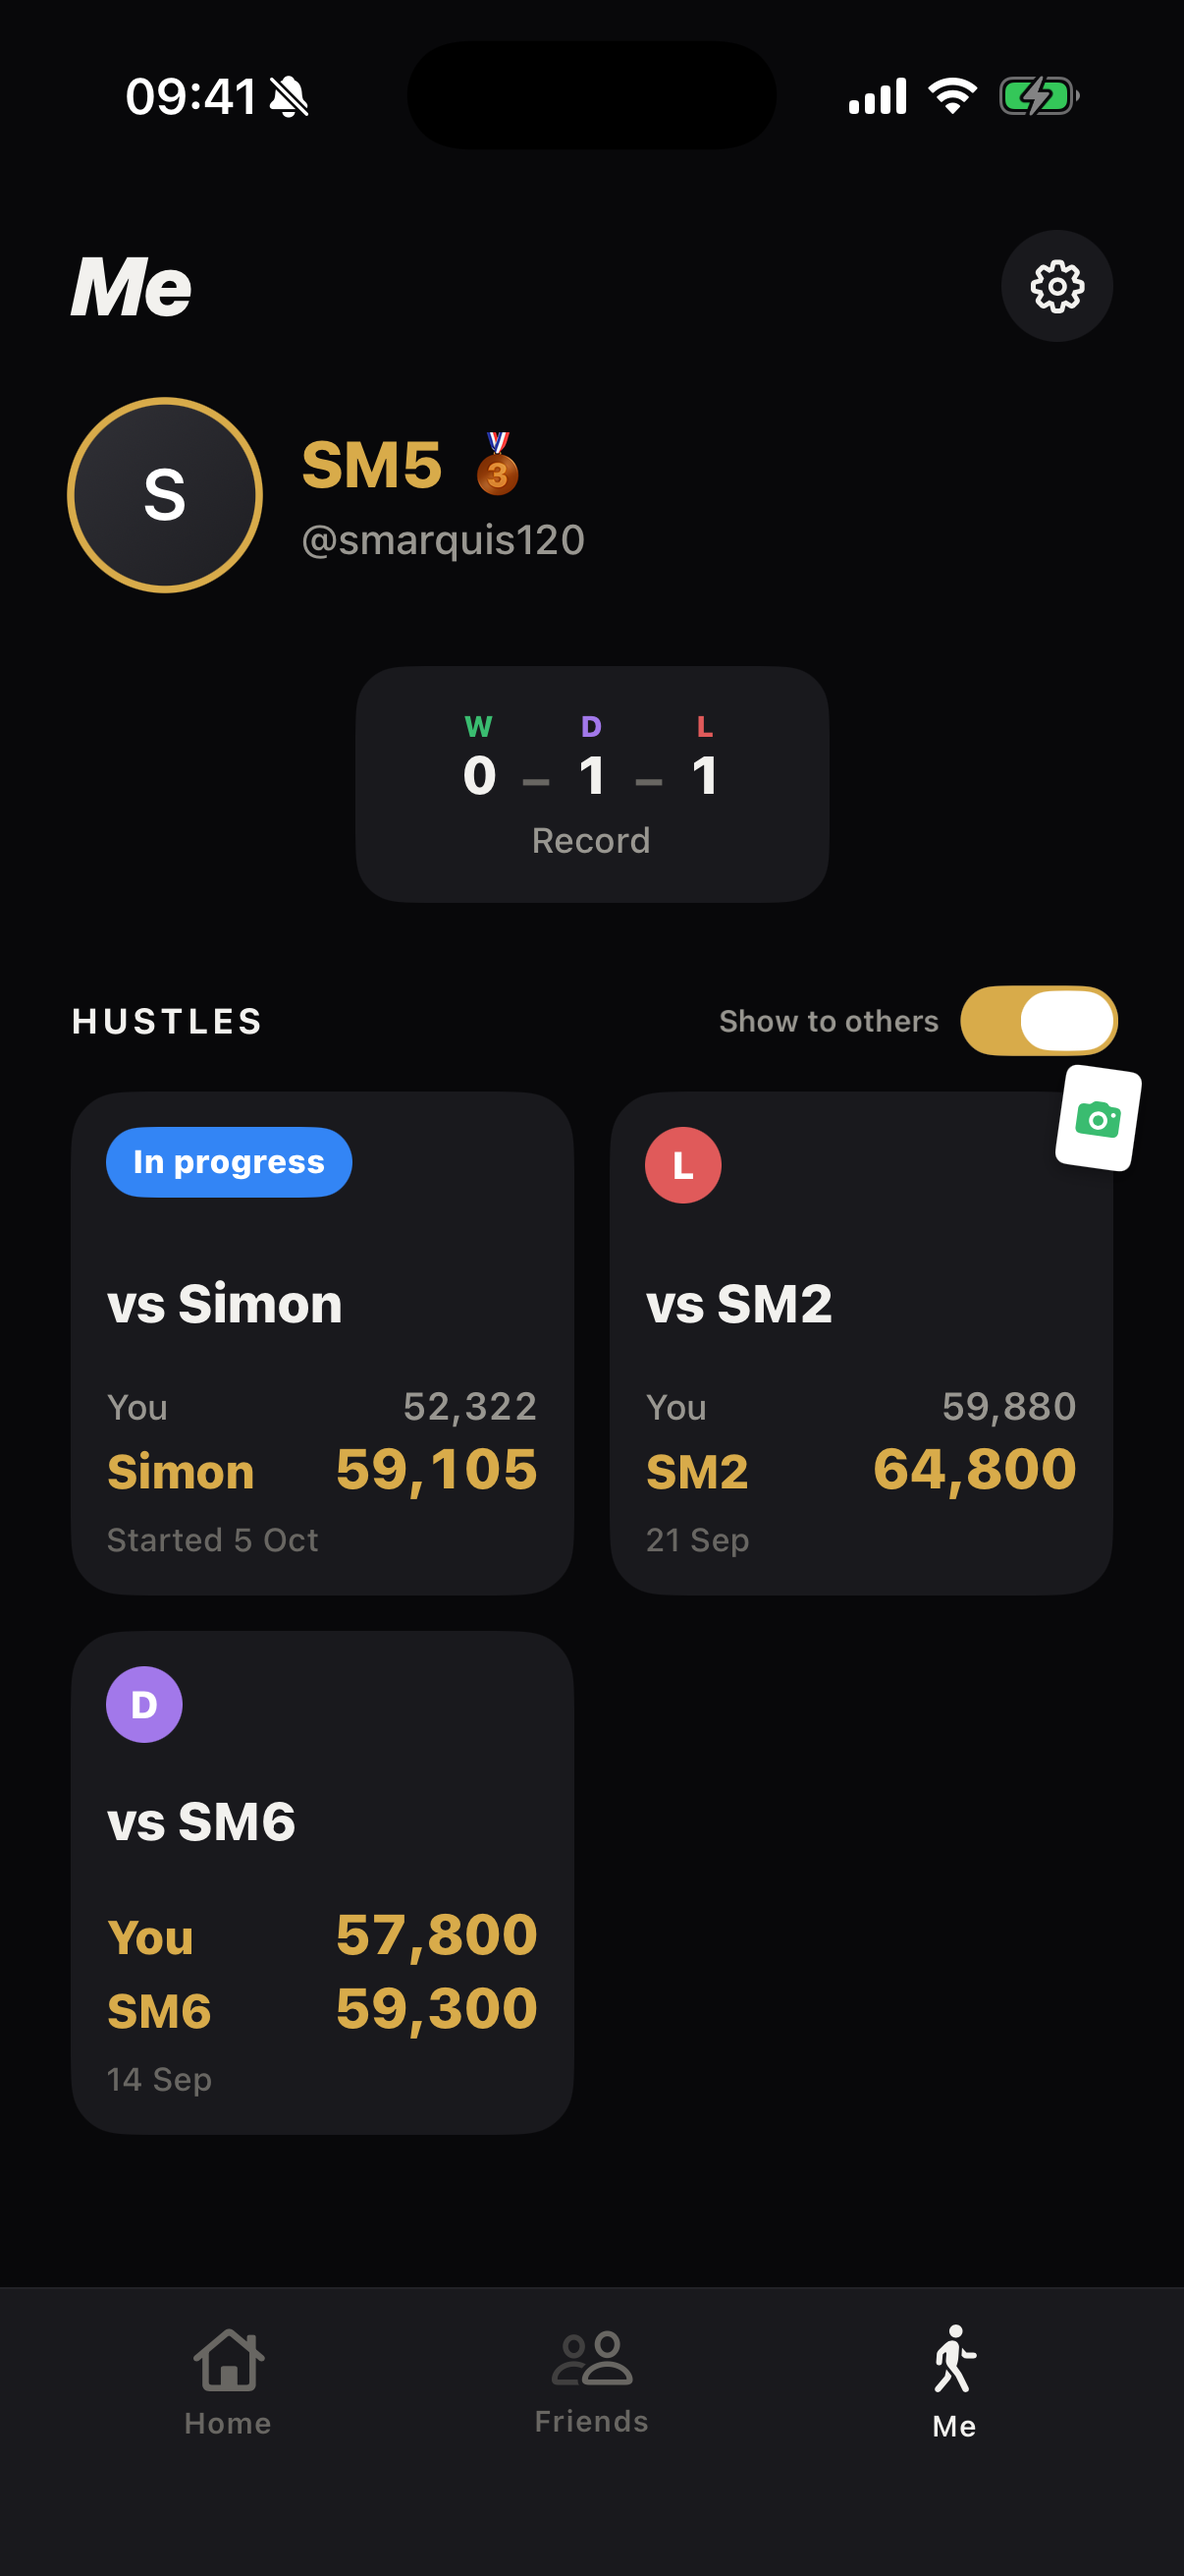
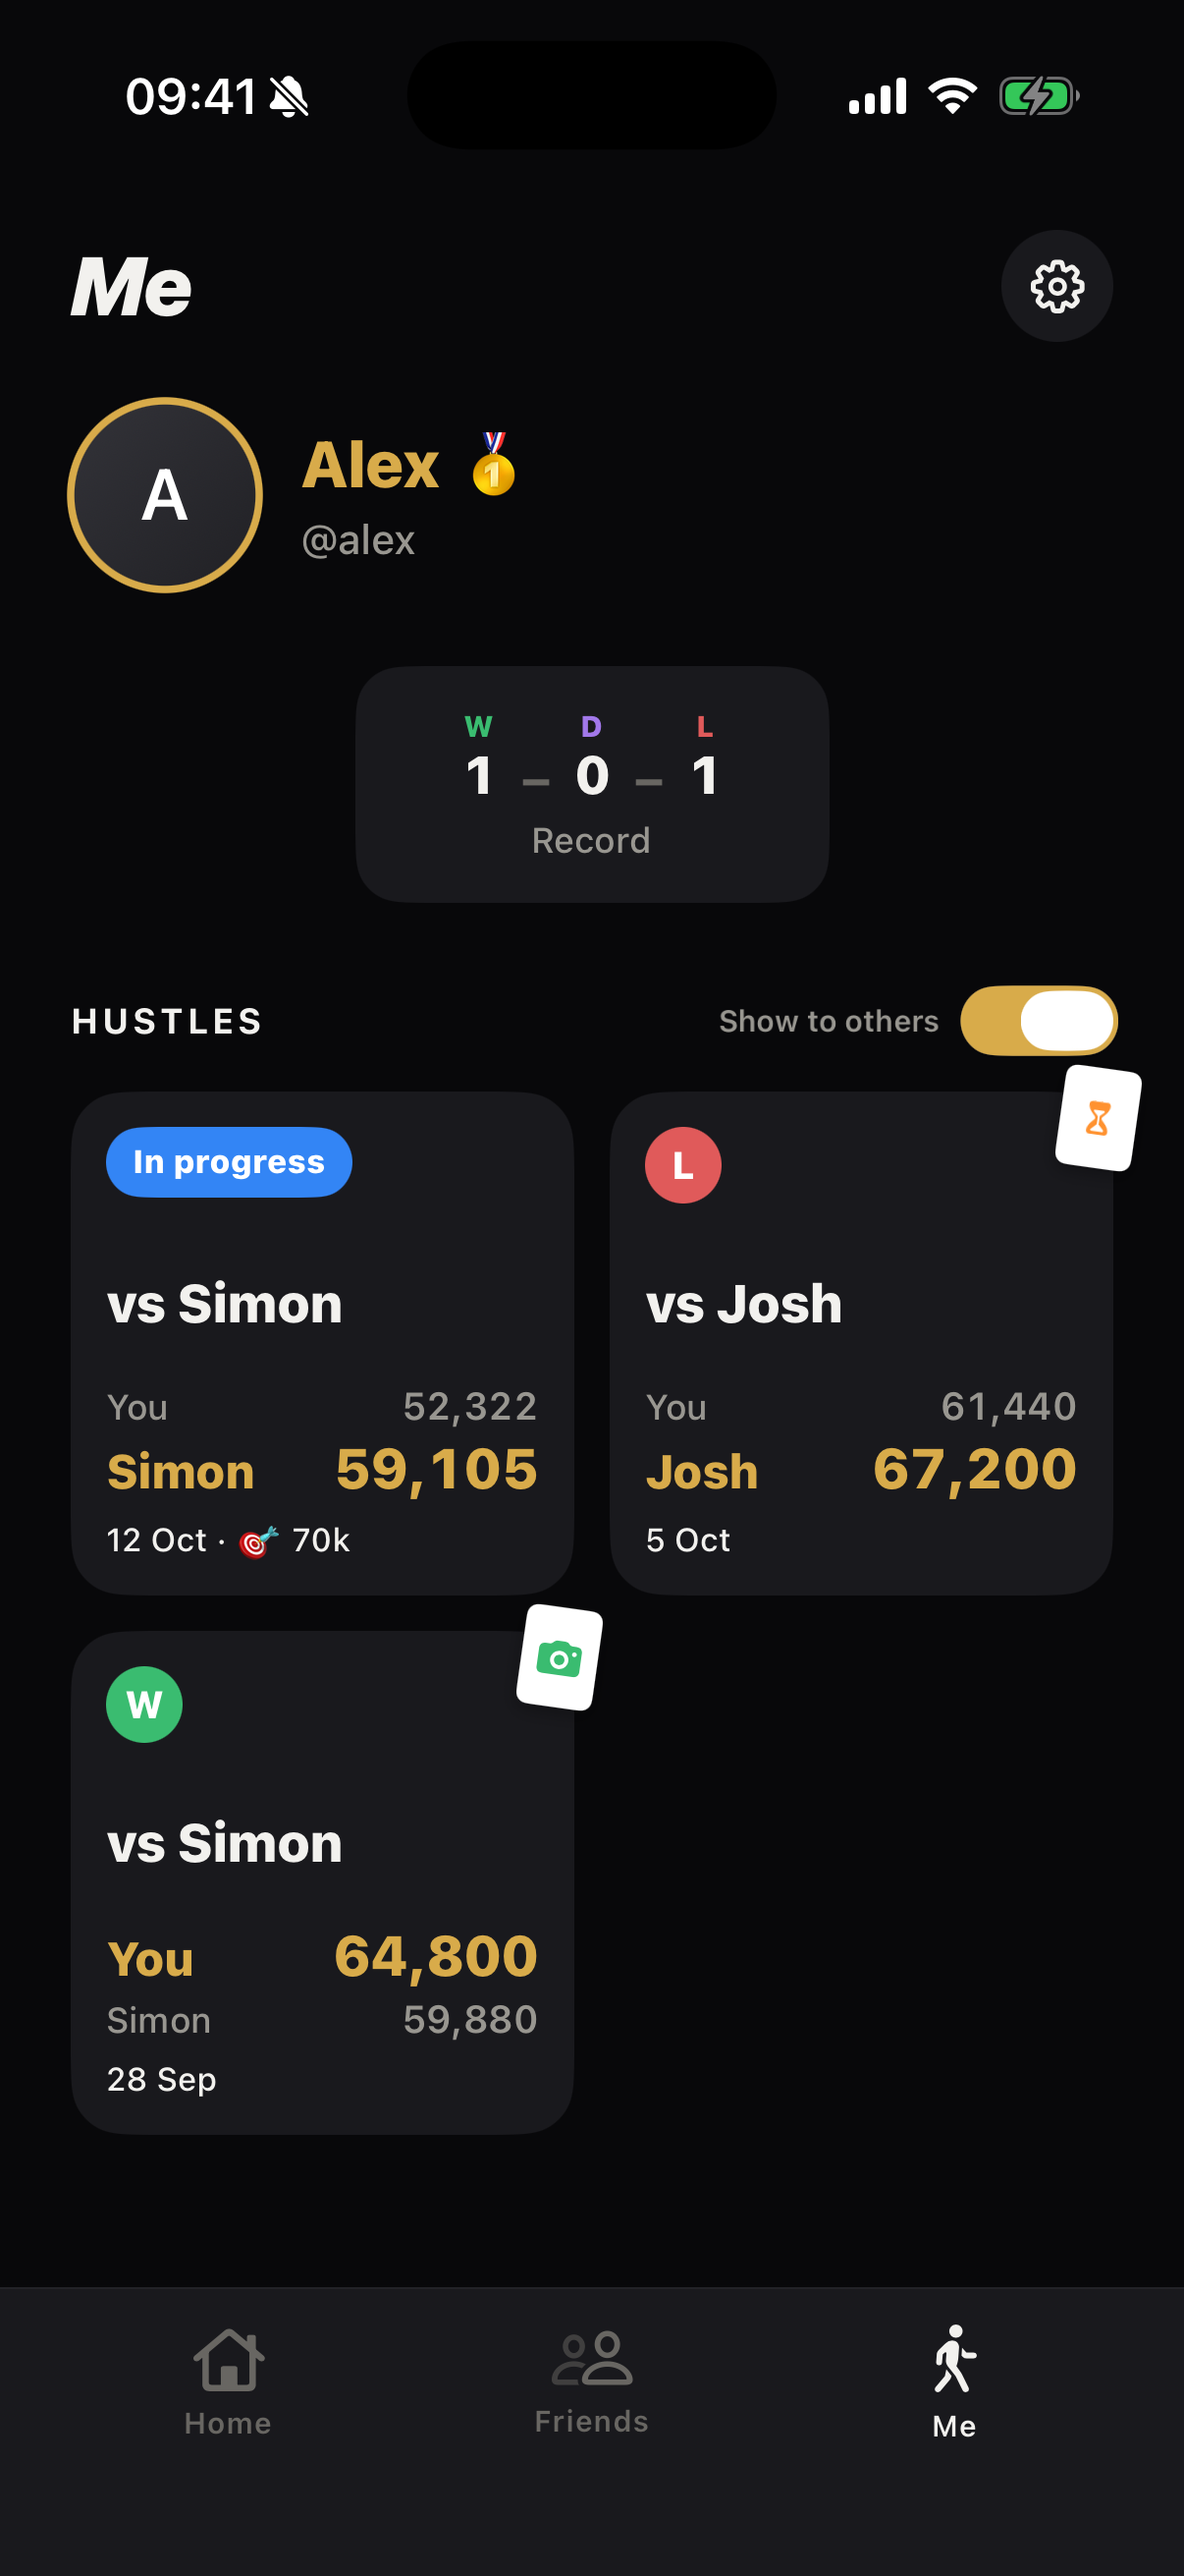
Just you card: weekly challenges + demo profile (no real account details)
Claude-Session: https://claude.ai/code/session_01FiZPvpkTZdwvwisTiJ46Nk

diff --git a/index.html b/index.html
@@ -20,7 +20,7 @@
   <link rel="icon" href="/favicon.ico?v=4" sizes="any">
   <link rel="icon" type="image/png" sizes="32x32" href="/img/favicon-32.png?v=2">
   <link rel="apple-touch-icon" href="/img/apple-touch-icon.png?v=2">
-  <link rel="stylesheet" href="style.css?v=47">
+  <link rel="stylesheet" href="style.css?v=48">
 </head>
 <body>
   <div class="page">
@@ -115,7 +115,10 @@
           </ul>
         </div>
         <div class="mode">
-          <div class="mode-shot"><img src="img/shot-profile.png" alt="Your profile with your daily step goal and personal challenges" width="1206" height="2622"></div>
+          <div class="mode-shots">
+            <div class="mode-shot"><img src="img/shot-challenges.png?v=1" alt="Your weekly challenges, sized to your own step history" width="1206" height="2622"></div>
+            <div class="mode-shot"><img src="img/shot-profile.png?v=2" alt="Your profile with your record and past Hustles" width="1206" height="2622"></div>
+          </div>
           <span class="mode-tag tag-green">Just you</span>
           <h3>Beat yourself too</h3>
           <p>Personal weekly challenges sized to your own step history, plus a daily step goal ring to close every day.</p>

diff --git a/style.css b/style.css
@@ -194,6 +194,10 @@ h2 {
   box-shadow: inset 0 0 0 1.5px #2b2e37, 0 28px 56px rgba(0,0,0,0.6);
 }
 .mode-shot img { display: block; width: 100%; border-radius: 37px; }
+/* two phones side by side in one card */
+.mode-shots { display: flex; gap: 12px; justify-content: center; margin: 2px auto 20px; }
+.mode-shots .mode-shot { width: 46%; max-width: 170px; margin: 0; padding: 6px; border-radius: 36px; }
+.mode-shots .mode-shot img { border-radius: 30px; }
 /* iPhone-style side buttons to match the hero phones */
 .mode-shot::before,
 .mode-shot::after {
